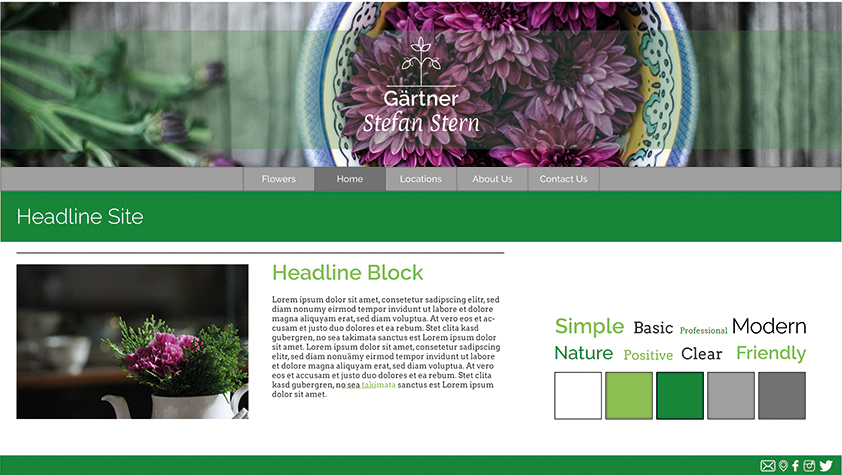
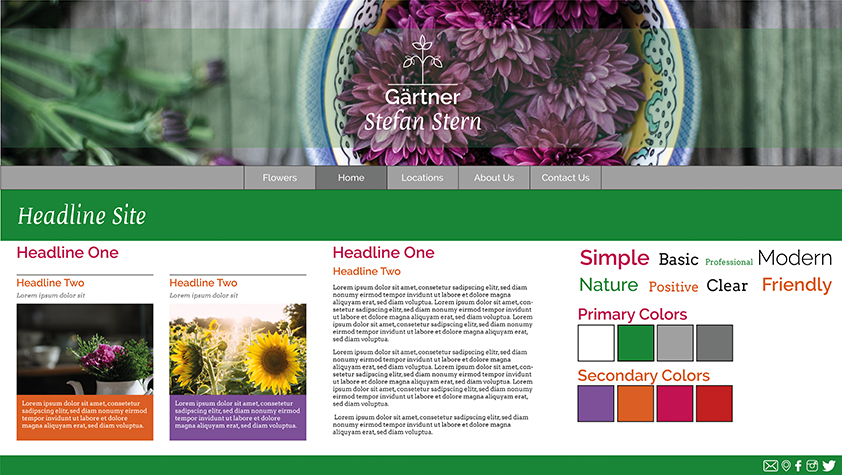
Doku & new Style Tile

diff --git a/Dokumentation/doku.html b/Dokumentation/doku.html
@@ -142,16 +142,15 @@
     </div>
 
     <div class="fullSide">
+        <a href="images/style-tile/style-tile-2-neu.jpg">
         <img src="images/style-tile/style-tile-2-neu.jpg" width="300"/>
+        </a>
         <div class="fullSideTextBox">
         <h2>Style Tiles – <i>Überarbeitung</i></h2>
             <p>
-                Vor der Umsetzung des ausgewählten Style Tiles auf die Website, wurde dieser noch einmal überarbeitet anhand des Feedbacks. Zu einem wurden die Grund Farben geändert.
-                Von den drei verschiedenen Graustufen wurde eines durch einen weiteren Grünton ersetzt. Die Zwei übrigen wurden in einem helleren Ton gewählt.
-                Dadurch wirkt die Seite gleich freundlicher und positiver. Durch den weiteren Grünton und die helleren Farben verbindet der Betrachter
-                allein durch die Farben, dass die Seite etwas mit Natur zu tun haben kann. Ohne dabei den Inhalt der Seite zu kennen.
-                Des Weiteren wurden die grünen Trennstiche entfernt, um die Seite nicht zu stark zu unterteilen.
-                Damit gelingt ein sanfterer Übergang zwischen den einzelnen Bereichen.
+                Das Style Tile und somit die ganze Webseite hat sich in der Entwicklung der Seite stark verändert. Zu den tristen Farben des ersten Entwurfs sind hellere und positivere Farben dazu gekommen. Die Unterschiedlichen Farben, zeigen die Vielfalt der Farben, die in der Natur vorkommen. Durch die Farben wirkt die Seite einladender und spiegelt die Arbeit der Firma besser wieder. 
+                Die Überschriften sind durch ihre Unterschiedlichen Farben schnell zu erfassen und klar getrennt.
+                Die einzelnen Blockelemente können farblich hinterlegt sein. Damit können Unterschiedliche Kategorien auf der ganzen Webseite schnell Unterschieden werden.  
             </p>
         </div>
 
@@ -159,15 +158,15 @@
     </div>
 
     <div class="fullSide">
-        <img src="images/Doku/photo-1430141954097-9d3abfe6147a.jpg" width="300"/>
-        <div class="fullSideTextBox">
-            <h2>Style Tiles – <i>Beschreibung des ausgewählten Style Tile</i></h2>
+        
+        
+        <h2>Beschreibung der Gestaltung</h2>
 
-            <h3>Layout</h3>
-            <p>
-                Das Style Tile an sich zeigt die Grundstruktur der Seite. Zuerst kommt der Header mit Namen und Logo. Danach folgt die Navigationsleiste, unter dieser befindet sich die Überschrift der aktiven Seite. Unter der Überschrift kommt dann der Content der einzelnen Seiten, welcher in einzelne Blöcke unterteilt ist. Zum Schluss folgt Noch der Footer.
-            </p>
-        </div>
+        <h3>Layout</h3>
+        <p>
+            Das Style Tile an sich zeigt die Grundstruktur der Seite. Zuerst kommt der Header mit Namen und Logo. Danach folgt die Navigationsleiste, unter dieser befindet sich die Überschrift der aktiven Seite. Unter der Überschrift kommt dann der Content der einzelnen Seiten, welcher in einzelne Blöcke unterteilt ist. Zum Schluss folgt Noch der Footer.
+        </p>
+       
 
         <div class="clear"></div>
         <h3>Aufbau einzelner Elemente</h3>
@@ -182,7 +181,7 @@
             Die Überschrift der Seite ist farblich einmal komplett horizontal über den ganzen Bildschirm hinterlegt. Der Footer ist in der gleichen Farbe, um so einen schnellen Überblick zwischen Anfang und Ende der Seite zu schaffen.
         </p>
         <p>
-            Inhalte auf der Seite werden dann in einzelne Blöcke unterlegt. Der Anfang der Blöcke wird durch eine schmale Linie aufgezeigt. In den Blöcken können sich Bilder und Text befinden. Die Überschrift und die Links wurden ebenfalls in einem Grünton gehalten.
+            Inhalte auf der Seite werden dann in einzelne Blöcke unterlegt. Jeder Block beginnt meist mit einer Hauptüberschrift. Diese ist durch ihre Farbe schnell zu erkennen. Die einzelnen Elemente können farblich hinterlegt sein. Dieses bietet ein schnelle Einteilung, wie z.B. bei den Angeboten die auf allen Seiten immer orange hinterlegt sind.
         </p>
 
         <div class="clear"></div>
@@ -194,19 +193,34 @@
         <div class="clear"></div>
         <h3>Farbe</h3>
         <p>
-            Wie schon am Anfang der Überlegung herausgearbeitet wurde, haben wir und für Grüntöne entschieden. Diese wurden kombiniert mit weiß und zwei Graustufen. Der Großflächige Grünton (rgb(25, 133, 54)) der als Hintergrund der Überschrift, Footer und als Transparente Farbe hinter dem Logo dient, wurde in einem kräftigen gesättigten Grün gewählt. Diese Farbe wurde deshalb gewählt, weil die Menschen gesunde Pflanzen mit einem kräftigen Grün verbinden.
-            Dieses sollte ebenfalls nicht zu knallig sein, damit es nicht von der restlichen Seite ablenkt.
-            Der zweite Grünton (rgb(140, 192, 82)) ist für Überschriften und Links gewählt worden. Dieser Grünton ist heller als der vorherige, um so eine Trennung zwischen den Beiden zu schaffen. Des Weiteren soll dadurch mehr Abwechslung auf der Seite entstehen. Weil auch nicht jede Pflanze die gleiche Farbe hat.
-            Als Hintergrund für die Seite wurde weiß gewählt und kein grün. Damit die Seite modern bleibt und den Betrachter nicht mit Grüntönen überflutet.
+            Wie schon am Anfang der Überlegung herausgearbeitet wurde, ist eine der Grundfarben der Seite ein Grünton (rgb (25, 133, 54)). Die Seite hat noch drei weitere Grundfarben einmal weiß und zwei Graustufen. Die Grundfarben werden für die gleichbleibenden Hauptbestandteile der Webseite benutzt. Dazu gehört der Header mit dem Logo, die Navigationsleiste, die Seitenüberschrift und der Footer. Dieses ist über alle Seiten einheitlich, außer bei den unterschiedlichen Wochenmärkten. Hier wird der Grünton durch eine andere Farbe ersetzt. Insgesamt gibt es vier Wochenmärkte. Jeder von diesen hat seine eigene Farbe, um sie klar voneinander zu trennen und schnell wieder zu erkennen. Das Hintergrundbild im Header ist bei den einzelnen Wochenmärkten auch der Farbe des Wochenmarkts angepasst. 
+        </p>
+        <p>
+            Die Sekundären Farben der Seite spiegeln die unterschiedlichen Farben der Natur wieder. Des Weiteren lassen sich mit den Farben klare Trennung zwischen Elementen schaffen, wie schon zuvor bei den Wochenmärkten beschrieben.
+            Für die Überschiften wurden zwei unterschiedliche Farben gewählt. Die Hauptüberschrift hat die Farbe (rgb (194, 18, 80)) und die Untergeordneten Überschriften haben die Farbe (rgb (219, 93, 35)). Diese Farben sind schnell voneinander zu unterscheiden. Trotz des Unterschieds der Farben harmonieren sie gut miteinander, da beide eine warme Farbe sind mit ähnlichen Farbanteilen. 
+            Die Farben werden ebenfalls für einzelnen Blockelemente benutzt, um sie farblich zu hinterlegen. Dazu kommen noch zwei Unterschiedliche Farben, einmal ein Blauton (rgb (124, 79, 152)) und ein Rotton (rgb (193, 32, 33)).
+            Dieses bietet eine schnelle Übersicht über die einzelnen Elemente. Durch unterschiedliche Farben bei den Blockelementen kann wieder die Vielzahl der Farben in der Natur aufgezeigt werden. Des Weiteren kann so schnell erkannt werden, ob die Blöcke Inhaltlich zusammen gehören oder nicht. 
+
+        </p>
+        <p>
+            
         </p>
 
         <div class="clear"></div>
         <h3>Typografie</h3>
         <p>
-            Die beiden gewählten Schriftarten sind Raleway und Arvo. Raleway wird für Überschriften und die Navigationsleiste benutzt. Die Schrift wurde gewählt, weil Sie durch ihre dünne Strichstärke einen modernen Look erzeugt. Dazu passt es zu dem simplen Look der Seite und wirkt nicht zu klobig.
-            Für den Fließtext wurde die Arvo benutzt. Diese ist im Gegensatz zur Raleway eine Serifenschrift. Dies bietet einen guten Kontrast zwischen Text und Überschrift und lässt den Betrachter schnell und gut unterscheiden. Des Weiteren haben wir drauf geachtet, dass die Schrift sehr lesefreundlich ist für längere Texte.
+            Die drei gewählten Schriftarten sind Raleway, Devroye und Arvo. Raleway und Devroye werden für die Überschriften benutzt. Beide Schriften wurden im Logo benutzt und werden in der Seite wiederaufgenommen.
         </p>
-
+        <p>
+            Die Devroye ist durch seine geschwungene Art klar von den anderen beiden zu Unterscheiden. Gewählt wurde sie, um das Logo nicht zu gradlinig erscheinen zu lassen. Da in der Natur Pflanzen und Bäume auch nicht gradlinig verlaufen. Auf der Webseite wird die Schrift nur für die Seitenüberschrift benutzt. Um eine Trennung zwischen den Überschriften auf der Seite zu erreichen.
+        </p> 
+        <p>
+            Die Raleway wird für die Navigationsleiste und den Überschriften auf der Seite benutzt. Die Schrift wurde gewählt, weil Sie durch ihre dünne Strichstärke einen modernen Look erzeugt. Dazu passt es zu dem simplen Look der Seite und wirkt nicht zu klobig.
+        </p> 
+        <p>
+            Für den Fließtext wurde die Arvo benutzt. Diese ist im Gegensatz zur Raleway eine Serifenschrift. Dies bietet einen guten Kontrast zwischen Text und Überschrift und lässt den Betrachter schnell und gut unterscheiden. Des Weiteren haben wir drauf geachtet, dass die Schrift sehr lesefreundlich ist für längere Texte. 
+        </p>
+        
         <div class="clear"></div>
     </div>
 
